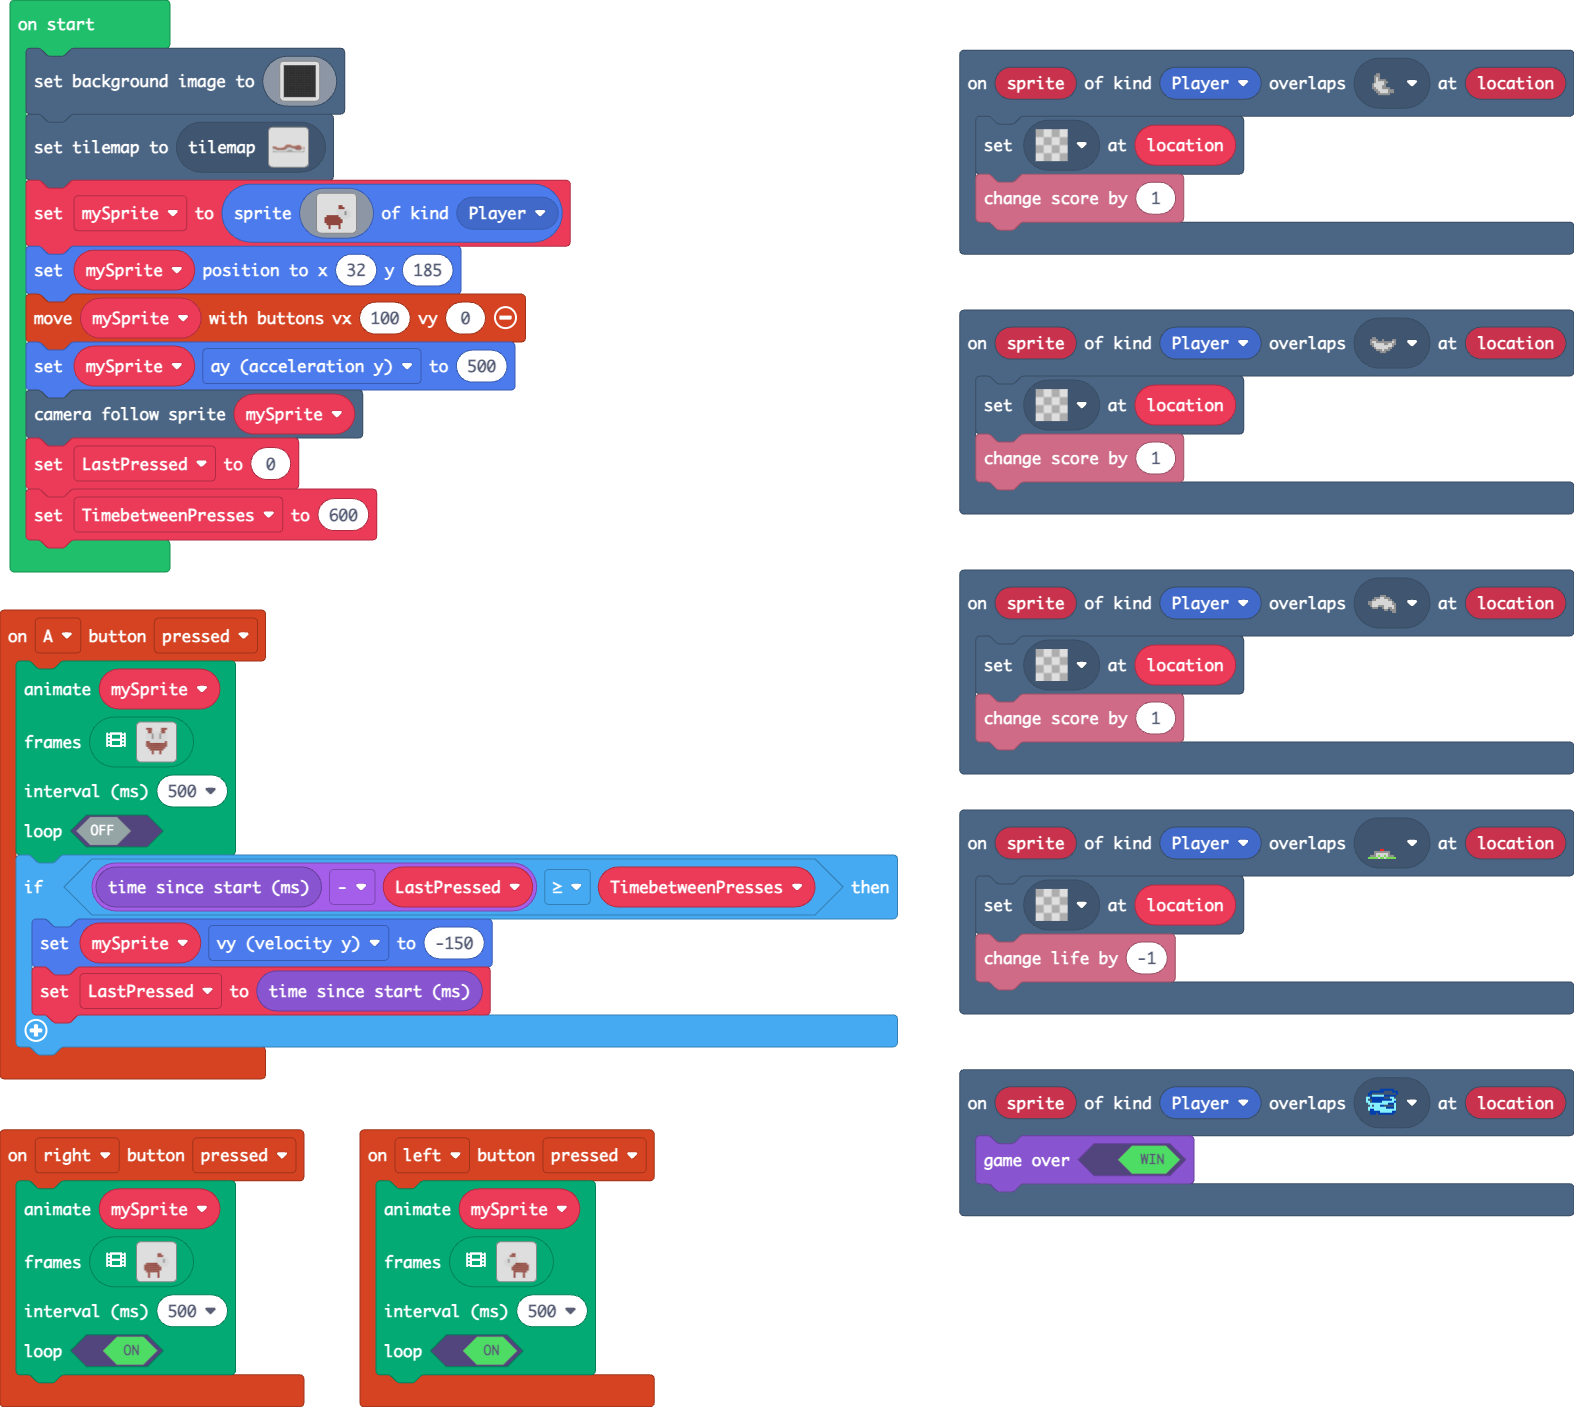
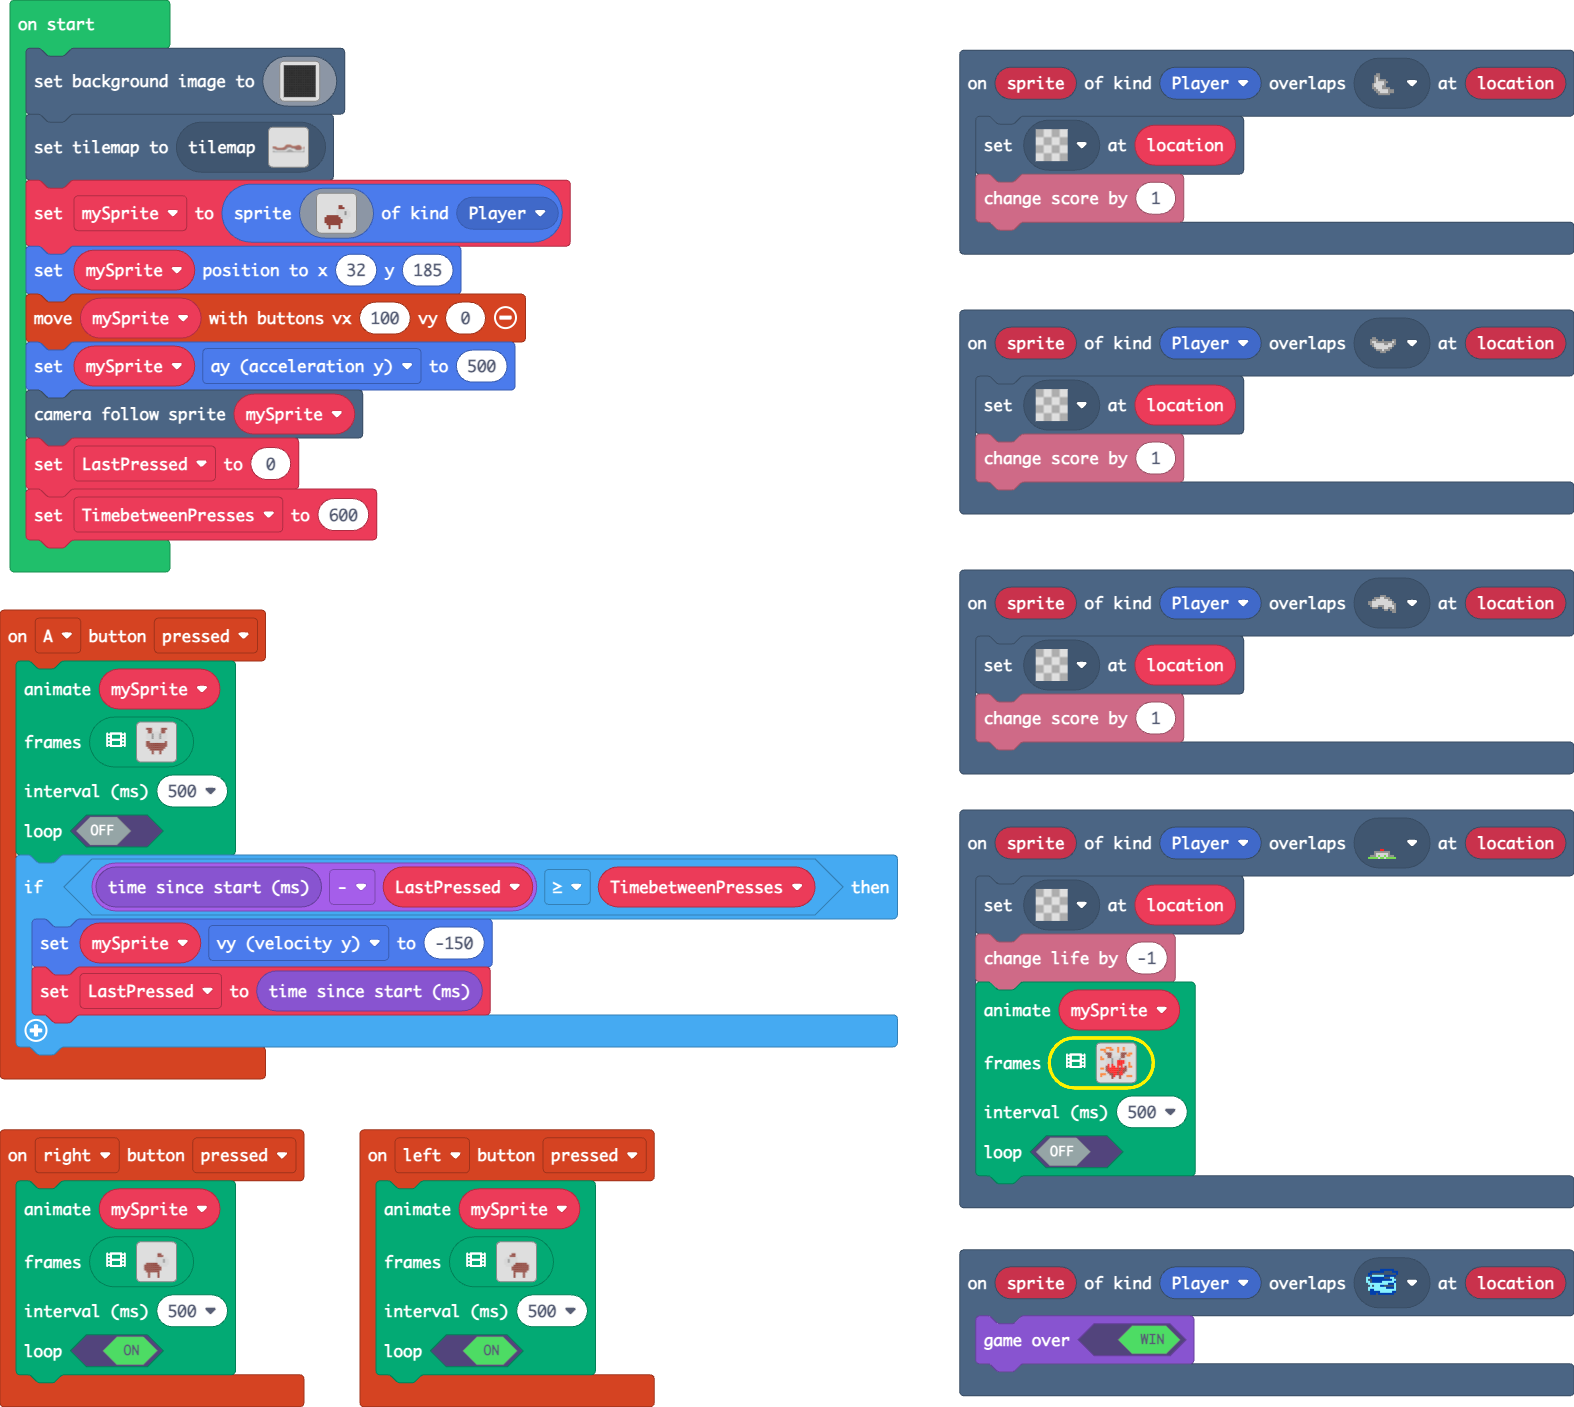
Added Hurt Animation

Changed region(s): [[0.5915, 0.6724, 1.0, 1.0]]

diff --git a/images.g.ts b/images.g.ts
@@ -372,6 +372,26 @@ ffffffffffffffffffffffffffffffffffffffffffffffffff
 . . . . . . . . . . . . . . . . . 
 . . . . . . . . . . . . . . . . . 
 `];
+            case "hurt":
+            case "anim4":return [img`
+. . . 4 4 4 . . . 4 . . 4 . . . . 
+4 4 4 . . 4 4 . . 4 . . 4 . . . . 
+. . 4 . . . . . . 4 . . . . . . . 
+. . . e e e . . . . . e e e . 4 4 
+. . . . e e . . . . . e e . 4 4 . 
+4 . . . e e c c c c c e e . . . . 
+4 4 . c c c d c c c d c c c . . . 
+. . . c c c d c c 2 2 2 2 c . . . 
+. . . c c c d c c 2 2 2 2 c . 4 . 
+. . . . 2 c 2 c c 2 2 2 c . . 4 . 
+. . . e 2 c 2 2 c 2 c 2 c e . 4 4 
+4 4 . e 2 2 2 2 2 2 e 2 2 e . . . 
+. . . e 2 2 2 2 2 2 e 2 e e . . . 
+. . . . e 2 2 2 2 e 2 2 e . . . . 
+4 4 4 . . e e 2 2 e 2 2 . . . . . 
+4 . . . . . e 2 . . e . . . 4 4 4 
+. . . . . . e . . . e . . . . . . 
+`];
         }
         return null;
     })

diff --git a/main.ts b/main.ts
@@ -17,6 +17,12 @@ controller.A.onEvent(ControllerButtonEvent.Pressed, function () {
 scene.onOverlapTile(SpriteKind.Player, assets.tile`mine`, function (sprite, location) {
     tiles.setTileAt(location, assets.tile`transparency16`)
     info.changeLifeBy(-1)
+    animation.runImageAnimation(
+    mySprite,
+    assets.animation`hurt`,
+    500,
+    false
+    )
 })
 controller.left.onEvent(ControllerButtonEvent.Pressed, function () {
     animation.runImageAnimation(
